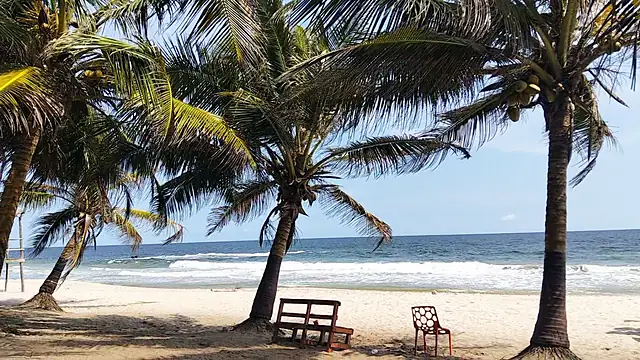
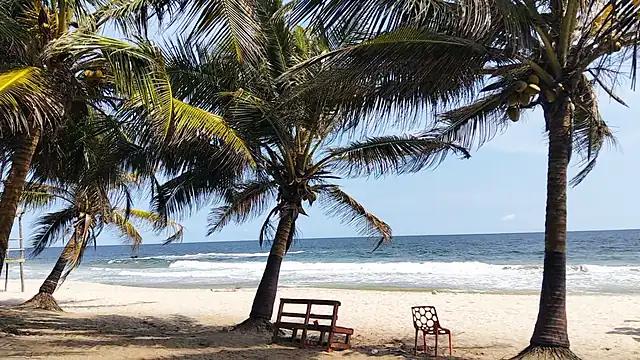
Barracuda preview v5: lighter hero pictures (828 w for phones, about 30 percent smaller), card uses the same file

diff --git a/index.html b/index.html
@@ -10,10 +10,10 @@
 <link rel="icon" type="image/png" href="favicon.png">
 <link rel="preload" href="assets/fonts/unbounded.woff2" as="font" type="font/woff2" crossorigin>
 <link rel="preload" href="assets/fonts/hanken-grotesk.woff2" as="font" type="font/woff2" crossorigin>
-<link rel="preload" as="image" fetchpriority="high" imagesrcset="assets/img5/hero-640.webp 640w, assets/img5/hero-960.webp 960w, assets/img5/hero-1400.webp 1400w" imagesizes="100vw">
-<link rel="stylesheet" href="assets/wall.css?v=1793402433">
+<link rel="preload" as="image" fetchpriority="high" imagesrcset="assets/img5/hero-640.webp 640w, assets/img5/hero-828.webp 828w, assets/img5/hero-1280.webp 1280w" imagesizes="100vw">
+<link rel="stylesheet" href="assets/wall.css?v=1793403021">
 <script>document.documentElement.classList.add('js');try{if(/[?&]review=1/.test(location.search))sessionStorage.bbreview='1';if(/[?&]review=0/.test(location.search))sessionStorage.removeItem('bbreview');if(sessionStorage.bbreview)document.documentElement.classList.add('review')}catch(e){}try{var s=sessionStorage;if(/[?&]intro=1/.test(location.search)||!s.bbseen&&!location.hash)document.documentElement.classList.add('intro');s.bbseen=1}catch(e){}</script>
-<script src="assets/wall.js?v=1793402433" defer></script>
+<script src="assets/wall.js?v=1793403021" defer></script>
 </head>
 <body>
 <div id="intro"><button type="button" class="iskip">Skip</button><div class="ib" aria-hidden="true"><img class="il" src="assets/logo-barracuda-320.webp" width="200" height="200" alt=""></div></div>
@@ -25,7 +25,7 @@
 <div class="hr"><a class="hcall" href="tel:07088654508" aria-label="Call 0708 865 4508"><svg viewBox="0 0 24 24" aria-hidden="true"><path d="M6.62 10.79c1.44 2.83 3.76 5.14 6.59 6.59l2.2-2.2c.27-.27.67-.36 1.02-.24 1.12.37 2.33.57 3.57.57.55 0 1 .45 1 1V20c0 .55-.45 1-1 1-9.39 0-17-7.61-17-17 0-.55.45-1 1-1h3.5c.55 0 1 .45 1 1 0 1.25.2 2.45.57 3.57.11.35.03.74-.25 1.02l-2.2 2.2z"/></svg><b>0708 865 4508</b></a><button type="button" class="btn main hbook" data-open="book">Book</button></div>
 </div></header>
 <main>
-<nav class="rail" aria-hidden="true"><i data-s="arrive">10:00</i><i data-s="pool">12:00</i><i data-s="volley">2:00</i><i data-s="horse">4:00</i><i data-s="dusk">6:00</i></nav><section class="hero"><div class="ph"><img src="assets/img5/hero-960.webp" srcset="assets/img5/hero-640.webp 640w, assets/img5/hero-960.webp 960w, assets/img5/hero-1400.webp 1400w" sizes="100vw" width="1400" height="788" alt="Palm trees on the beach with waves rolling in and a wooden bench on the sand" fetchpriority="high"></div><div class="hero-in wrap"><p class="kick">Okun Ajah, Lagos</p><h1 class="wallh"><span class="sr">Barracuda Beach</span><span class="paint" aria-hidden="true"><svg class="cloud" viewBox="0 0 360 150" preserveAspectRatio="none" aria-hidden="true"><path d="M14 70C4 38 52 10 128 16C196 -2 268 6 316 30C352 50 346 100 300 116C244 136 160 134 96 128C42 124 22 100 14 70Z"/><path class="b" d="M60 96C40 70 92 40 170 46C240 36 298 52 318 78C330 100 292 118 240 118C170 126 96 126 60 96Z"/><path class="w" d="M40 40C70 24 120 20 170 24C130 30 80 38 40 40Z"/></svg><span class="ln"><span class="l" style="--i:0;--r:-3deg;--y:0.03em">B</span><span class="l" style="--i:1;--r:2deg;--y:-0.02em">A</span><span class="l" style="--i:2;--r:-1.5deg;--y:0.04em">R</span><span class="l" style="--i:3;--r:3deg;--y:-0.03em">R</span><span class="l" style="--i:4;--r:-2deg;--y:0.02em">A</span><span class="l" style="--i:5;--r:1.5deg;--y:-0.04em">C</span><span class="l" style="--i:6;--r:-2.5deg;--y:0.03em">U</span><span class="l" style="--i:7;--r:2deg;--y:-0.02em">D</span><span class="l" style="--i:8;--r:-1deg;--y:0.04em">A</span></span><span class="ln"><span class="l" style="--i:9;--r:2deg;--y:-0.02em">B</span><span class="l" style="--i:10;--r:-2.5deg;--y:0.03em">E</span><span class="l" style="--i:11;--r:1.5deg;--y:-0.03em">A</span><span class="l" style="--i:12;--r:-1.5deg;--y:0.02em">C</span><span class="l" style="--i:13;--r:3deg;--y:-0.04em">H</span></span></span></h1><p class="sub">Private beach, an outdoor pool, volleyball and horse riding on the Okun Ajah coast.</p><div class="acts"><button type="button" class="btn yel" data-open="book"><svg viewBox="0 0 24 24" aria-hidden="true"><path d="M19 3h-1V1h-2v2H8V1H6v2H5a2 2 0 0 0-2 2v14a2 2 0 0 0 2 2h14a2 2 0 0 0 2-2V5a2 2 0 0 0-2-2zm0 16H5V9h14v10z"/></svg> Book a day</button><button type="button" class="btn ghost" data-open="route"><svg viewBox="0 0 24 24" aria-hidden="true"><path d="M12 2C8.13 2 5 5.13 5 9c0 5.25 7 13 7 13s7-7.75 7-13c0-3.87-3.13-7-7-7zm0 9.5c-1.38 0-2.5-1.12-2.5-2.5s1.12-2.5 2.5-2.5 2.5 1.12 2.5 2.5-1.12 2.5-2.5 2.5z"/></svg> Directions</button></div></div></section><div class="proof"><div class="proofw"><b>6,140</b><span>guests have reviewed Barracuda on Google</span><em><svg viewBox="0 0 24 24" aria-hidden="true"><path d="M12 17.27 18.18 21l-1.64-7.03L22 9.24l-7.19-.61L12 2 9.19 8.63 2 9.24l5.46 4.73L5.82 21z"/></svg>4.2 on Google</em></div></div><div class="bunting" aria-hidden="true"></div><section class="day-head"><div class="wrap"><p class="eyebrow">A day at Barracuda</p><h2>Here is how a day can go</h2><p class="lead">Five stops, from the road in to the evening. Take what you like.</p></div></section><section class="stop s-arrive" data-stop="arrive"><div class="wrap"><div class="clock"><b>10:00</b><span>Arrive</span></div><h2>You are at the right beach</h2><p class="lead">Google Maps can send you to another beach on this road. Look for these three things. If you see them, you are at Barracuda.</p><div class="looks" role="list" tabindex="0" aria-label="Does it look like this? Swipe sideways"><figure class="look" role="listitem"><div><img src="assets/img5/flags-800.webp" srcset="assets/img5/flags-480.webp 480w, assets/img5/flags-800.webp 800w, assets/img5/flags-1080.webp 1080w" sizes="(min-width:900px) 360px, 74vw" width="1080" height="809" alt="A path lined with flags and palm trees leading to the painted beach bar" loading="lazy" decoding="async"></div><figcaption><i>1</i>The way in, lined with flags</figcaption></figure><figure class="look" role="listitem"><div><img src="assets/img5/sign-800.webp" srcset="assets/img5/sign-480.webp 480w, assets/img5/sign-800.webp 800w, assets/img5/sign-1200.webp 1200w" sizes="(min-width:900px) 360px, 74vw" width="1200" height="675" alt="The painted BARRACUDA BEACH sign on the beach bar" loading="lazy" decoding="async" style="object-position:30% 50%"></div><figcaption><i>2</i>The painted BARRACUDA BEACH sign</figcaption></figure><figure class="look" role="listitem"><div><img src="assets/img5/wall-800.webp" srcset="assets/img5/wall-480.webp 480w, assets/img5/wall-800.webp 800w, assets/img5/wall-1200.webp 1200w" sizes="(min-width:900px) 360px, 74vw" width="1200" height="900" alt="The painted wall of the beach bar, seen from the sand" loading="lazy" decoding="async" style="object-position:50% 40%"></div><figcaption><i>3</i>The wall, seen from the sand</figcaption></figure></div><div class="arrive-grid"><div class="ah"><h3>Three steps from the main road</h3></div><ol class="route"><li><span class="dot">1</span><div><h3>The main road</h3><p>Get to the <b>Abraham Adesanya</b> roundabout on the Lekki-Epe Expressway, in Ajah. By bus, ask for the Abraham Adesanya bus stop and get down there.</p></div></li><li><span class="dot">2</span><div><h3>Turn onto Ogombo Road</h3><p>Go through Ogombo Road toward Okun Ajah. From Abraham Adesanya it is about 7 km, around 25 minutes by car when the road is quiet.</p><div class="say"><q class="sayText">Barracuda Beach, Okun Ajah, through Ogombo Road</q><button class="btn line copySay" type="button">Copy</button></div><p class="tip">Go slowly on the last stretch: guests say it can be rough after rain.</p></div></li><li><span class="dot">3</span><div><h3>Look for the painted wall</h3><p>The way in is lined with flags and leads to the painted BARRACUDA BEACH wall.</p></div></li></ol><div class="am"><div class="mapnote"><b>If Google Maps stops you at another beach.</b> A beach with another name is not Barracuda. Send us your location and we will guide you, or call <a href="tel:07088654508">0708 865 4508</a>.</div><div class="acts"><button type="button" class="btn wa" data-loc><svg viewBox="0 0 24 24" aria-hidden="true"><path d="M12 2a10 10 0 0 0-8.6 15.1L2 22l5-1.3A10 10 0 1 0 12 2zm5.2 14.2c-.2.6-1.2 1.2-1.7 1.2-.5.1-1 .2-3.3-.7-2.8-1.2-4.6-4-4.7-4.2-.1-.2-1.1-1.5-1.1-2.8 0-1.3.7-2 .9-2.2.2-.3.5-.3.7-.3h.5c.2 0 .4 0 .6.5l.8 2c.1.2.1.4 0 .5l-.3.5-.4.4c-.1.1-.3.3-.1.6.2.3.8 1.3 1.7 2.1 1.2 1 2.1 1.3 2.4 1.5.3.1.5.1.6-.1l.9-1.1c.2-.3.4-.2.6-.1l1.9.9c.3.1.5.2.5.3.1.2.1.6-.1 1.2z"/></svg> Send my location on WhatsApp</button><a class="btn line" href="https://www.google.com/maps/search/?api=1&query=Barracuda+Beach+Resort+Okun+Ajah+Lagos"><svg viewBox="0 0 24 24" aria-hidden="true"><path d="M12 2C8.13 2 5 5.13 5 9c0 5.25 7 13 7 13s7-7.75 7-13c0-3.87-3.13-7-7-7zm0 9.5c-1.38 0-2.5-1.12-2.5-2.5s1.12-2.5 2.5-2.5 2.5 1.12 2.5 2.5-1.12 2.5-2.5 2.5z"/></svg> Open Google Maps</a></div><p class="locnote">Your phone asks first. Your location goes only into the WhatsApp message, and you choose whether to send it.</p></div></div><blockquote class="pull"><p>The place is really beautiful, with amazing sea views and a very relaxing atmosphere.</p><footer>Amarachi Abani, Google review</footer></blockquote></div></section><section class="stop s-pool" data-stop="pool"><div class="wrap"><div class="stop-grid"><div><div class="clock"><b>12:00</b><span>Pool</span></div><h2>Cool off at the pool</h2><p class="lead">An outdoor pool, with palm trees and thatched huts around it.</p><ul class="tags"><li>Outdoor pool</li></ul></div><figure class="pic"><img src="assets/img5/pool-800.webp" srcset="assets/img5/pool-480.webp 480w, assets/img5/pool-800.webp 800w, assets/img5/pool-1200.webp 1200w" sizes="(min-width:900px) 560px, 92vw" width="1200" height="900" alt="The outdoor pool with a gold rail, palm trees and thatched huts" loading="lazy" decoding="async"></figure></div><blockquote class="pull"><p>Great vibes and even better memories.</p><footer>Sugarshey Sijumoru, Google review</footer></blockquote></div></section><section class="stop s-volley" data-stop="volley"><div class="wrap"><div class="stop-grid rev"><div><div class="clock"><b>2:00</b><span>Volleyball</span></div><h2>Volleyball on the sand</h2><p class="lead">A sand court beside the coloured buildings. 52 guests mention volleyball on Google.</p><ul class="tags"><li>Volleyball</li><li>Table tennis</li></ul></div><figure class="pic"><img src="assets/img5/courts-800.webp" srcset="assets/img5/courts-480.webp 480w, assets/img5/courts-800.webp 800w, assets/img5/courts-1032.webp 1032w" sizes="(min-width:900px) 560px, 92vw" width="1032" height="774" alt="A sand volleyball court with the coloured buildings behind" loading="lazy" decoding="async"></figure></div><blockquote class="pull"><p>It's a fun place to be in. Can't wait to go back again.</p><footer>chisom linus, Google review</footer></blockquote></div></section><section class="stop s-horse" data-stop="horse"><div class="wrap"><div class="stop-grid"><div><div class="clock"><b>4:00</b><span>Horse ride</span></div><h2>A horse ride along the sand</h2><p class="lead">Guests ride along the beach, at the water's edge. 23 guests mention horse riding on Google.</p><ul class="tags"><li>Horse riding</li></ul></div><figure class="pic"><img src="assets/img5/horse-800.webp" srcset="assets/img5/horse-480.webp 480w, assets/img5/horse-800.webp 800w, assets/img5/horse-1200.webp 1200w" sizes="(min-width:900px) 560px, 92vw" width="1200" height="900" alt="Two people riding a horse along the beach at the water edge" loading="lazy" decoding="async"></figure></div><blockquote class="pull"><p>The staff was helpful, and the scenery made for some excellent photos.</p><footer>Sugarshey Sijumoru, Google review</footer></blockquote></div></section><section class="stop s-dusk" data-stop="dusk"><div class="sun" aria-hidden="true"></div><div class="wrap"><div class="clock"><b>6:00</b><span>Evening</span></div><h2>Stay the night</h2><p class="lead">Make the day longer. Check-in is from 12:30pm and check-out is by 12:00 noon.</p><div class="duo"><figure class="pic wide"><img src="assets/img5/dusk-800.webp" srcset="assets/img5/dusk-480.webp 480w, assets/img5/dusk-800.webp 800w, assets/img5/dusk-1200.webp 1200w" sizes="(min-width:900px) 560px, 92vw" width="1200" height="900" alt="The resort building in the evening light, behind palm trees" loading="lazy" decoding="async"></figure><figure class="pic"><img src="assets/img5/room-800.webp" srcset="assets/img5/room-480.webp 480w, assets/img5/room-800.webp 800w, assets/img5/room-1200.webp 1200w" sizes="(min-width:900px) 360px, 92vw" width="1200" height="1600" alt="A bedroom with a made bed, pillows, curtains and a window" loading="lazy" decoding="async" style="object-position:50% 70%" class="roomcrop"></figure></div><div class="acts"><a class="btn yel" href="rooms.html">See the rooms</a><button type="button" class="btn ghost" data-open="book" data-lane="room">Book a room</button></div><blockquote class="pull"><p>Overall, we had an enjoyable experience, and I would definitely visit again.</p><footer>Toyin Akinola, Google review</footer></blockquote></div></section><section class="s-night"><div class="wrap share-grid"><div><p class="eyebrow">Bring your people</p><h2>Plan the day with your group</h2><p class="lead">Pick a day and how many of you. Get a card to post in your group chat, and a ready message to the resort. You pay nothing on this site.</p><div class="acts"><button type="button" class="btn yel" data-open="share">Make our card</button></div></div><canvas class="cardprev" width="1080" height="1350" role="img" aria-label="An example beach day card with the painted Barracuda Beach name, a date and the group size"></canvas></div></section><section class="qsec"><div class="wrap qgrid"><div><p class="eyebrow">Questions guests ask first</p><h2>Before you come</h2></div><div class="faq"><details><summary>Where exactly is the gate?</summary><p>Follow the three steps in the day above: the Abraham Adesanya roundabout, Ogombo Road, then the painted wall. If Google Maps stops you at a beach with another name, you are not at Barracuda. Send us your location and we will guide you.</p></details><details><summary>How much is the gate fee?</summary><p>Message us on WhatsApp and we reply with the fee for your day. <span class="chip">To confirm</span></p></details><details><summary>Can I bring my own food and drinks?</summary><p>Ask us when you message, and we tell you the rule. <span class="chip">To confirm</span></p></details><details><summary>Do I pay on this website?</summary><p>No. You send a request, we reply on WhatsApp and confirm the day. How you pay is agreed with the resort.</p></details><details><summary>What time is check-in and check-out?</summary><p>Check-in is from 12:30pm and check-out is by 12:00 noon.</p></details><details><summary>Is there parking?</summary><p>Free parking is listed on the resort's Google page.</p></details><details><summary>Is the beach crowded?</summary><p>45 guests on Google say it is not crowded. Busy days can differ, so ask when you send your request.</p></details></div></div><div class="wrap qgrid" style="padding-top:54px"><div><p class="eyebrow">Contact</p><h2>Talk to us</h2></div><div class="contact"><div class="row"><svg viewBox="0 0 24 24" aria-hidden="true"><path d="M6.62 10.79c1.44 2.83 3.76 5.14 6.59 6.59l2.2-2.2c.27-.27.67-.36 1.02-.24 1.12.37 2.33.57 3.57.57.55 0 1 .45 1 1V20c0 .55-.45 1-1 1-9.39 0-17-7.61-17-17 0-.55.45-1 1-1h3.5c.55 0 1 .45 1 1 0 1.25.2 2.45.57 3.57.11.35.03.74-.25 1.02l-2.2 2.2z"/></svg><div><b>Phone and WhatsApp</b><br><a href="tel:07088654508">0708 865 4508</a></div></div><div class="row"><svg viewBox="0 0 24 24" aria-hidden="true"><path d="M12 2C8.13 2 5 5.13 5 9c0 5.25 7 13 7 13s7-7.75 7-13c0-3.87-3.13-7-7-7zm0 9.5c-1.38 0-2.5-1.12-2.5-2.5s1.12-2.5 2.5-2.5 2.5 1.12 2.5 2.5-1.12 2.5-2.5 2.5z"/></svg><div><b>Where</b><br>Okun Ajah, off Abraham Adesanya roundabout, off Ogombo Road, Ajah, Lagos</div></div><div class="row"><svg viewBox="0 0 24 24" aria-hidden="true"><path d="M9 16.17 4.83 12l-1.42 1.41L9 19 21 7l-1.41-1.41z"/></svg><div><b>Rooms</b><br>Check-in from 12:30pm, check-out by 12:00 noon</div></div><div class="row rv-only"><svg viewBox="0 0 24 24" aria-hidden="true"><path d="M9 16.17 4.83 12l-1.42 1.41L9 19 21 7l-1.41-1.41z"/></svg><div><b>Gate hours</b><br>The opening hours of the gate go here. <span class="chip">To confirm</span></div></div><div class="acts"><a class="btn wa" href="https://wa.me/2347088654508?text=Hello%20Barracuda%20Beach%20Resort.%20I%20have%20a%20question."><svg viewBox="0 0 24 24" aria-hidden="true"><path d="M12 2a10 10 0 0 0-8.6 15.1L2 22l5-1.3A10 10 0 1 0 12 2zm5.2 14.2c-.2.6-1.2 1.2-1.7 1.2-.5.1-1 .2-3.3-.7-2.8-1.2-4.6-4-4.7-4.2-.1-.2-1.1-1.5-1.1-2.8 0-1.3.7-2 .9-2.2.2-.3.5-.3.7-.3h.5c.2 0 .4 0 .6.5l.8 2c.1.2.1.4 0 .5l-.3.5-.4.4c-.1.1-.3.3-.1.6.2.3.8 1.3 1.7 2.1 1.2 1 2.1 1.3 2.4 1.5.3.1.5.1.6-.1l.9-1.1c.2-.3.4-.2.6-.1l1.9.9c.3.1.5.2.5.3.1.2.1.6-.1 1.2z"/></svg> Message on WhatsApp</a><a class="btn line" href="tel:07088654508"><svg viewBox="0 0 24 24" aria-hidden="true"><path d="M6.62 10.79c1.44 2.83 3.76 5.14 6.59 6.59l2.2-2.2c.27-.27.67-.36 1.02-.24 1.12.37 2.33.57 3.57.57.55 0 1 .45 1 1V20c0 .55-.45 1-1 1-9.39 0-17-7.61-17-17 0-.55.45-1 1-1h3.5c.55 0 1 .45 1 1 0 1.25.2 2.45.57 3.57.11.35.03.74-.25 1.02l-2.2 2.2z"/></svg> Call now</a></div></div></div></section>
+<nav class="rail" aria-hidden="true"><i data-s="arrive">10:00</i><i data-s="pool">12:00</i><i data-s="volley">2:00</i><i data-s="horse">4:00</i><i data-s="dusk">6:00</i></nav><section class="hero"><div class="ph"><img src="assets/img5/hero-828.webp" srcset="assets/img5/hero-640.webp 640w, assets/img5/hero-828.webp 828w, assets/img5/hero-1280.webp 1280w" sizes="100vw" width="1280" height="720" alt="Palm trees on the beach with waves rolling in and a wooden bench on the sand" fetchpriority="high"></div><div class="hero-in wrap"><p class="kick">Okun Ajah, Lagos</p><h1 class="wallh"><span class="sr">Barracuda Beach</span><span class="paint" aria-hidden="true"><svg class="cloud" viewBox="0 0 360 150" preserveAspectRatio="none" aria-hidden="true"><path d="M14 70C4 38 52 10 128 16C196 -2 268 6 316 30C352 50 346 100 300 116C244 136 160 134 96 128C42 124 22 100 14 70Z"/><path class="b" d="M60 96C40 70 92 40 170 46C240 36 298 52 318 78C330 100 292 118 240 118C170 126 96 126 60 96Z"/><path class="w" d="M40 40C70 24 120 20 170 24C130 30 80 38 40 40Z"/></svg><span class="ln"><span class="l" style="--i:0;--r:-3deg;--y:0.03em">B</span><span class="l" style="--i:1;--r:2deg;--y:-0.02em">A</span><span class="l" style="--i:2;--r:-1.5deg;--y:0.04em">R</span><span class="l" style="--i:3;--r:3deg;--y:-0.03em">R</span><span class="l" style="--i:4;--r:-2deg;--y:0.02em">A</span><span class="l" style="--i:5;--r:1.5deg;--y:-0.04em">C</span><span class="l" style="--i:6;--r:-2.5deg;--y:0.03em">U</span><span class="l" style="--i:7;--r:2deg;--y:-0.02em">D</span><span class="l" style="--i:8;--r:-1deg;--y:0.04em">A</span></span><span class="ln"><span class="l" style="--i:9;--r:2deg;--y:-0.02em">B</span><span class="l" style="--i:10;--r:-2.5deg;--y:0.03em">E</span><span class="l" style="--i:11;--r:1.5deg;--y:-0.03em">A</span><span class="l" style="--i:12;--r:-1.5deg;--y:0.02em">C</span><span class="l" style="--i:13;--r:3deg;--y:-0.04em">H</span></span></span></h1><p class="sub">Private beach, an outdoor pool, volleyball and horse riding on the Okun Ajah coast.</p><div class="acts"><button type="button" class="btn yel" data-open="book"><svg viewBox="0 0 24 24" aria-hidden="true"><path d="M19 3h-1V1h-2v2H8V1H6v2H5a2 2 0 0 0-2 2v14a2 2 0 0 0 2 2h14a2 2 0 0 0 2-2V5a2 2 0 0 0-2-2zm0 16H5V9h14v10z"/></svg> Book a day</button><button type="button" class="btn ghost" data-open="route"><svg viewBox="0 0 24 24" aria-hidden="true"><path d="M12 2C8.13 2 5 5.13 5 9c0 5.25 7 13 7 13s7-7.75 7-13c0-3.87-3.13-7-7-7zm0 9.5c-1.38 0-2.5-1.12-2.5-2.5s1.12-2.5 2.5-2.5 2.5 1.12 2.5 2.5-1.12 2.5-2.5 2.5z"/></svg> Directions</button></div></div></section><div class="proof"><div class="proofw"><b>6,140</b><span>guests have reviewed Barracuda on Google</span><em><svg viewBox="0 0 24 24" aria-hidden="true"><path d="M12 17.27 18.18 21l-1.64-7.03L22 9.24l-7.19-.61L12 2 9.19 8.63 2 9.24l5.46 4.73L5.82 21z"/></svg>4.2 on Google</em></div></div><div class="bunting" aria-hidden="true"></div><section class="day-head"><div class="wrap"><p class="eyebrow">A day at Barracuda</p><h2>Here is how a day can go</h2><p class="lead">Five stops, from the road in to the evening. Take what you like.</p></div></section><section class="stop s-arrive" data-stop="arrive"><div class="wrap"><div class="clock"><b>10:00</b><span>Arrive</span></div><h2>You are at the right beach</h2><p class="lead">Google Maps can send you to another beach on this road. Look for these three things. If you see them, you are at Barracuda.</p><div class="looks" role="list" tabindex="0" aria-label="Does it look like this? Swipe sideways"><figure class="look" role="listitem"><div><img src="assets/img5/flags-800.webp" srcset="assets/img5/flags-480.webp 480w, assets/img5/flags-800.webp 800w, assets/img5/flags-1080.webp 1080w" sizes="(min-width:900px) 360px, 74vw" width="1080" height="809" alt="A path lined with flags and palm trees leading to the painted beach bar" loading="lazy" decoding="async"></div><figcaption><i>1</i>The way in, lined with flags</figcaption></figure><figure class="look" role="listitem"><div><img src="assets/img5/sign-800.webp" srcset="assets/img5/sign-480.webp 480w, assets/img5/sign-800.webp 800w, assets/img5/sign-1200.webp 1200w" sizes="(min-width:900px) 360px, 74vw" width="1200" height="675" alt="The painted BARRACUDA BEACH sign on the beach bar" loading="lazy" decoding="async" style="object-position:30% 50%"></div><figcaption><i>2</i>The painted BARRACUDA BEACH sign</figcaption></figure><figure class="look" role="listitem"><div><img src="assets/img5/wall-800.webp" srcset="assets/img5/wall-480.webp 480w, assets/img5/wall-800.webp 800w, assets/img5/wall-1200.webp 1200w" sizes="(min-width:900px) 360px, 74vw" width="1200" height="900" alt="The painted wall of the beach bar, seen from the sand" loading="lazy" decoding="async" style="object-position:50% 40%"></div><figcaption><i>3</i>The wall, seen from the sand</figcaption></figure></div><div class="arrive-grid"><div class="ah"><h3>Three steps from the main road</h3></div><ol class="route"><li><span class="dot">1</span><div><h3>The main road</h3><p>Get to the <b>Abraham Adesanya</b> roundabout on the Lekki-Epe Expressway, in Ajah. By bus, ask for the Abraham Adesanya bus stop and get down there.</p></div></li><li><span class="dot">2</span><div><h3>Turn onto Ogombo Road</h3><p>Go through Ogombo Road toward Okun Ajah. From Abraham Adesanya it is about 7 km, around 25 minutes by car when the road is quiet.</p><div class="say"><q class="sayText">Barracuda Beach, Okun Ajah, through Ogombo Road</q><button class="btn line copySay" type="button">Copy</button></div><p class="tip">Go slowly on the last stretch: guests say it can be rough after rain.</p></div></li><li><span class="dot">3</span><div><h3>Look for the painted wall</h3><p>The way in is lined with flags and leads to the painted BARRACUDA BEACH wall.</p></div></li></ol><div class="am"><div class="mapnote"><b>If Google Maps stops you at another beach.</b> A beach with another name is not Barracuda. Send us your location and we will guide you, or call <a href="tel:07088654508">0708 865 4508</a>.</div><div class="acts"><button type="button" class="btn wa" data-loc><svg viewBox="0 0 24 24" aria-hidden="true"><path d="M12 2a10 10 0 0 0-8.6 15.1L2 22l5-1.3A10 10 0 1 0 12 2zm5.2 14.2c-.2.6-1.2 1.2-1.7 1.2-.5.1-1 .2-3.3-.7-2.8-1.2-4.6-4-4.7-4.2-.1-.2-1.1-1.5-1.1-2.8 0-1.3.7-2 .9-2.2.2-.3.5-.3.7-.3h.5c.2 0 .4 0 .6.5l.8 2c.1.2.1.4 0 .5l-.3.5-.4.4c-.1.1-.3.3-.1.6.2.3.8 1.3 1.7 2.1 1.2 1 2.1 1.3 2.4 1.5.3.1.5.1.6-.1l.9-1.1c.2-.3.4-.2.6-.1l1.9.9c.3.1.5.2.5.3.1.2.1.6-.1 1.2z"/></svg> Send my location on WhatsApp</button><a class="btn line" href="https://www.google.com/maps/search/?api=1&query=Barracuda+Beach+Resort+Okun+Ajah+Lagos"><svg viewBox="0 0 24 24" aria-hidden="true"><path d="M12 2C8.13 2 5 5.13 5 9c0 5.25 7 13 7 13s7-7.75 7-13c0-3.87-3.13-7-7-7zm0 9.5c-1.38 0-2.5-1.12-2.5-2.5s1.12-2.5 2.5-2.5 2.5 1.12 2.5 2.5-1.12 2.5-2.5 2.5z"/></svg> Open Google Maps</a></div><p class="locnote">Your phone asks first. Your location goes only into the WhatsApp message, and you choose whether to send it.</p></div></div><blockquote class="pull"><p>The place is really beautiful, with amazing sea views and a very relaxing atmosphere.</p><footer>Amarachi Abani, Google review</footer></blockquote></div></section><section class="stop s-pool" data-stop="pool"><div class="wrap"><div class="stop-grid"><div><div class="clock"><b>12:00</b><span>Pool</span></div><h2>Cool off at the pool</h2><p class="lead">An outdoor pool, with palm trees and thatched huts around it.</p><ul class="tags"><li>Outdoor pool</li></ul></div><figure class="pic"><img src="assets/img5/pool-800.webp" srcset="assets/img5/pool-480.webp 480w, assets/img5/pool-800.webp 800w, assets/img5/pool-1200.webp 1200w" sizes="(min-width:900px) 560px, 92vw" width="1200" height="900" alt="The outdoor pool with a gold rail, palm trees and thatched huts" loading="lazy" decoding="async"></figure></div><blockquote class="pull"><p>Great vibes and even better memories.</p><footer>Sugarshey Sijumoru, Google review</footer></blockquote></div></section><section class="stop s-volley" data-stop="volley"><div class="wrap"><div class="stop-grid rev"><div><div class="clock"><b>2:00</b><span>Volleyball</span></div><h2>Volleyball on the sand</h2><p class="lead">A sand court beside the coloured buildings. 52 guests mention volleyball on Google.</p><ul class="tags"><li>Volleyball</li><li>Table tennis</li></ul></div><figure class="pic"><img src="assets/img5/courts-800.webp" srcset="assets/img5/courts-480.webp 480w, assets/img5/courts-800.webp 800w, assets/img5/courts-1032.webp 1032w" sizes="(min-width:900px) 560px, 92vw" width="1032" height="774" alt="A sand volleyball court with the coloured buildings behind" loading="lazy" decoding="async"></figure></div><blockquote class="pull"><p>It's a fun place to be in. Can't wait to go back again.</p><footer>chisom linus, Google review</footer></blockquote></div></section><section class="stop s-horse" data-stop="horse"><div class="wrap"><div class="stop-grid"><div><div class="clock"><b>4:00</b><span>Horse ride</span></div><h2>A horse ride along the sand</h2><p class="lead">Guests ride along the beach, at the water's edge. 23 guests mention horse riding on Google.</p><ul class="tags"><li>Horse riding</li></ul></div><figure class="pic"><img src="assets/img5/horse-800.webp" srcset="assets/img5/horse-480.webp 480w, assets/img5/horse-800.webp 800w, assets/img5/horse-1200.webp 1200w" sizes="(min-width:900px) 560px, 92vw" width="1200" height="900" alt="Two people riding a horse along the beach at the water edge" loading="lazy" decoding="async"></figure></div><blockquote class="pull"><p>The staff was helpful, and the scenery made for some excellent photos.</p><footer>Sugarshey Sijumoru, Google review</footer></blockquote></div></section><section class="stop s-dusk" data-stop="dusk"><div class="sun" aria-hidden="true"></div><div class="wrap"><div class="clock"><b>6:00</b><span>Evening</span></div><h2>Stay the night</h2><p class="lead">Make the day longer. Check-in is from 12:30pm and check-out is by 12:00 noon.</p><div class="duo"><figure class="pic wide"><img src="assets/img5/dusk-800.webp" srcset="assets/img5/dusk-480.webp 480w, assets/img5/dusk-800.webp 800w, assets/img5/dusk-1200.webp 1200w" sizes="(min-width:900px) 560px, 92vw" width="1200" height="900" alt="The resort building in the evening light, behind palm trees" loading="lazy" decoding="async"></figure><figure class="pic"><img src="assets/img5/room-800.webp" srcset="assets/img5/room-480.webp 480w, assets/img5/room-800.webp 800w, assets/img5/room-1200.webp 1200w" sizes="(min-width:900px) 360px, 92vw" width="1200" height="1600" alt="A bedroom with a made bed, pillows, curtains and a window" loading="lazy" decoding="async" style="object-position:50% 70%" class="roomcrop"></figure></div><div class="acts"><a class="btn yel" href="rooms.html">See the rooms</a><button type="button" class="btn ghost" data-open="book" data-lane="room">Book a room</button></div><blockquote class="pull"><p>Overall, we had an enjoyable experience, and I would definitely visit again.</p><footer>Toyin Akinola, Google review</footer></blockquote></div></section><section class="s-night"><div class="wrap share-grid"><div><p class="eyebrow">Bring your people</p><h2>Plan the day with your group</h2><p class="lead">Pick a day and how many of you. Get a card to post in your group chat, and a ready message to the resort. You pay nothing on this site.</p><div class="acts"><button type="button" class="btn yel" data-open="share">Make our card</button></div></div><canvas class="cardprev" width="1080" height="1350" role="img" aria-label="An example beach day card with the painted Barracuda Beach name, a date and the group size"></canvas></div></section><section class="qsec"><div class="wrap qgrid"><div><p class="eyebrow">Questions guests ask first</p><h2>Before you come</h2></div><div class="faq"><details><summary>Where exactly is the gate?</summary><p>Follow the three steps in the day above: the Abraham Adesanya roundabout, Ogombo Road, then the painted wall. If Google Maps stops you at a beach with another name, you are not at Barracuda. Send us your location and we will guide you.</p></details><details><summary>How much is the gate fee?</summary><p>Message us on WhatsApp and we reply with the fee for your day. <span class="chip">To confirm</span></p></details><details><summary>Can I bring my own food and drinks?</summary><p>Ask us when you message, and we tell you the rule. <span class="chip">To confirm</span></p></details><details><summary>Do I pay on this website?</summary><p>No. You send a request, we reply on WhatsApp and confirm the day. How you pay is agreed with the resort.</p></details><details><summary>What time is check-in and check-out?</summary><p>Check-in is from 12:30pm and check-out is by 12:00 noon.</p></details><details><summary>Is there parking?</summary><p>Free parking is listed on the resort's Google page.</p></details><details><summary>Is the beach crowded?</summary><p>45 guests on Google say it is not crowded. Busy days can differ, so ask when you send your request.</p></details></div></div><div class="wrap qgrid" style="padding-top:54px"><div><p class="eyebrow">Contact</p><h2>Talk to us</h2></div><div class="contact"><div class="row"><svg viewBox="0 0 24 24" aria-hidden="true"><path d="M6.62 10.79c1.44 2.83 3.76 5.14 6.59 6.59l2.2-2.2c.27-.27.67-.36 1.02-.24 1.12.37 2.33.57 3.57.57.55 0 1 .45 1 1V20c0 .55-.45 1-1 1-9.39 0-17-7.61-17-17 0-.55.45-1 1-1h3.5c.55 0 1 .45 1 1 0 1.25.2 2.45.57 3.57.11.35.03.74-.25 1.02l-2.2 2.2z"/></svg><div><b>Phone and WhatsApp</b><br><a href="tel:07088654508">0708 865 4508</a></div></div><div class="row"><svg viewBox="0 0 24 24" aria-hidden="true"><path d="M12 2C8.13 2 5 5.13 5 9c0 5.25 7 13 7 13s7-7.75 7-13c0-3.87-3.13-7-7-7zm0 9.5c-1.38 0-2.5-1.12-2.5-2.5s1.12-2.5 2.5-2.5 2.5 1.12 2.5 2.5-1.12 2.5-2.5 2.5z"/></svg><div><b>Where</b><br>Okun Ajah, off Abraham Adesanya roundabout, off Ogombo Road, Ajah, Lagos</div></div><div class="row"><svg viewBox="0 0 24 24" aria-hidden="true"><path d="M9 16.17 4.83 12l-1.42 1.41L9 19 21 7l-1.41-1.41z"/></svg><div><b>Rooms</b><br>Check-in from 12:30pm, check-out by 12:00 noon</div></div><div class="row rv-only"><svg viewBox="0 0 24 24" aria-hidden="true"><path d="M9 16.17 4.83 12l-1.42 1.41L9 19 21 7l-1.41-1.41z"/></svg><div><b>Gate hours</b><br>The opening hours of the gate go here. <span class="chip">To confirm</span></div></div><div class="acts"><a class="btn wa" href="https://wa.me/2347088654508?text=Hello%20Barracuda%20Beach%20Resort.%20I%20have%20a%20question."><svg viewBox="0 0 24 24" aria-hidden="true"><path d="M12 2a10 10 0 0 0-8.6 15.1L2 22l5-1.3A10 10 0 1 0 12 2zm5.2 14.2c-.2.6-1.2 1.2-1.7 1.2-.5.1-1 .2-3.3-.7-2.8-1.2-4.6-4-4.7-4.2-.1-.2-1.1-1.5-1.1-2.8 0-1.3.7-2 .9-2.2.2-.3.5-.3.7-.3h.5c.2 0 .4 0 .6.5l.8 2c.1.2.1.4 0 .5l-.3.5-.4.4c-.1.1-.3.3-.1.6.2.3.8 1.3 1.7 2.1 1.2 1 2.1 1.3 2.4 1.5.3.1.5.1.6-.1l.9-1.1c.2-.3.4-.2.6-.1l1.9.9c.3.1.5.2.5.3.1.2.1.6-.1 1.2z"/></svg> Message on WhatsApp</a><a class="btn line" href="tel:07088654508"><svg viewBox="0 0 24 24" aria-hidden="true"><path d="M6.62 10.79c1.44 2.83 3.76 5.14 6.59 6.59l2.2-2.2c.27-.27.67-.36 1.02-.24 1.12.37 2.33.57 3.57.57.55 0 1 .45 1 1V20c0 .55-.45 1-1 1-9.39 0-17-7.61-17-17 0-.55.45-1 1-1h3.5c.55 0 1 .45 1 1 0 1.25.2 2.45.57 3.57.11.35.03.74-.25 1.02l-2.2 2.2z"/></svg> Call now</a></div></div></div></section>
 </main>
 <footer><div class="wrap">
 <div class="plate"><img src="assets/logo-barracuda-88.webp" width="42" height="42" alt="">Barracuda Beach Resort</div>

diff --git a/rooms.html b/rooms.html
@@ -11,9 +11,9 @@
 <link rel="preload" href="assets/fonts/unbounded.woff2" as="font" type="font/woff2" crossorigin>
 <link rel="preload" href="assets/fonts/hanken-grotesk.woff2" as="font" type="font/woff2" crossorigin>
 <link rel="preload" as="image" fetchpriority="high" imagesrcset="assets/img5/room-480.webp 480w, assets/img5/room-800.webp 800w, assets/img5/room-1200.webp 1200w" imagesizes="(min-width:900px) 50vw, 100vw">
-<link rel="stylesheet" href="assets/wall.css?v=1793402433">
+<link rel="stylesheet" href="assets/wall.css?v=1793403021">
 <script>document.documentElement.classList.add('js');try{if(/[?&]review=1/.test(location.search))sessionStorage.bbreview='1';if(/[?&]review=0/.test(location.search))sessionStorage.removeItem('bbreview');if(sessionStorage.bbreview)document.documentElement.classList.add('review')}catch(e){}try{sessionStorage.bbseen=1}catch(e){}</script>
-<script src="assets/wall.js?v=1793402433" defer></script>
+<script src="assets/wall.js?v=1793403021" defer></script>
 </head>
 <body>
 <div class="draftbar"><div class="wrap"><b>Review mode.</b> The dashed tags and the Pending list show what is not confirmed yet. Guests do not see them. <button type="button" data-open="pending">Pending list (12)</button> <button type="button" data-review-off>Hide review notes</button></div></div>

diff --git a/assets/wall.js b/assets/wall.js
@@ -76,7 +76,7 @@ document.addEventListener('DOMContentLoaded',function(){
   try{sessionStorage.removeItem('bbreview')}catch(e){}root.classList.remove('review');var dl=sheets.pending;if(dl)shut(dl)})});
 
  /* the share-a-day card: drawn on a canvas in the browser, nothing is uploaded */
- var heroImg=new Image(),logoImg=new Image();heroImg.src='assets/img5/hero-960.webp';logoImg.src='assets/logo-barracuda-320.webp';
+ var heroImg=new Image(),logoImg=new Image();heroImg.src='assets/img5/hero-828.webp';logoImg.src='assets/logo-barracuda-320.webp';
  function nextSat(){var x=new Date();x.setDate(x.getDate()+((6-x.getDay()+7)%7||7));return isoOf(x)}
  function rr(c,x,y,w,h,r){c.beginPath();c.moveTo(x+r,y);c.arcTo(x+w,y,x+w,y+h,r);c.arcTo(x+w,y+h,x,y+h,r);c.arcTo(x,y+h,x,y,r);c.arcTo(x,y,x+w,y,r);c.closePath()}
  function paintWord(c,txt,cx,y,size,rot){
